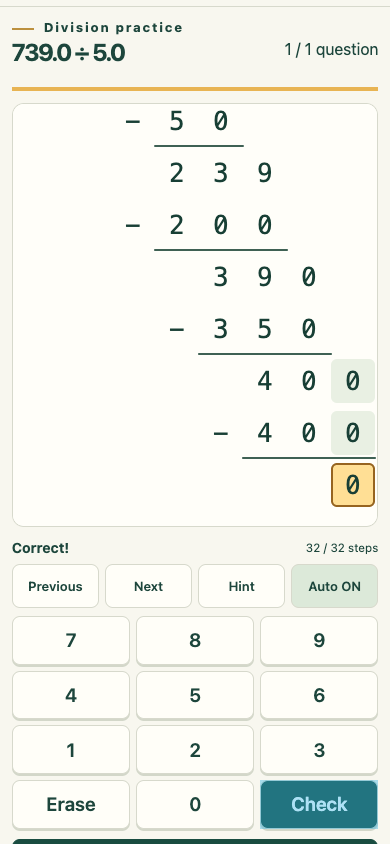
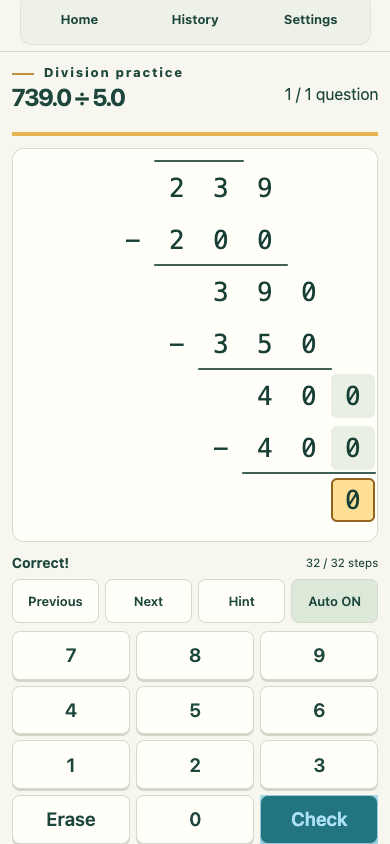
Use US flag and align responsive header toolbar

diff --git a/public/privacy/index.html b/public/privacy/index.html
@@ -1,1 +1,1 @@
-<!doctype html><html lang="ja"><head><meta charset="utf-8"><meta name="viewport" content="width=device-width,initial-scale=1"><title>プライバシー・外部送信 | Masu</title><style>body{font:16px/1.8 system-ui;background:#f8f7ef;color:#194c40;max-width:48rem;margin:2rem auto;padding:1rem}h1{font-size:clamp(1.4rem,5vw,2rem);line-height:1.5;text-wrap:balance}p{white-space:pre-wrap;overflow-wrap:anywhere}a{color:inherit}nav{display:flex;flex-wrap:wrap;gap:1rem}[data-language]{display:none}html[lang="ja"] [data-language="ja"],html[lang="en"] [data-language="en"]{display:block}.language-switch{display:flex;justify-content:flex-end;gap:4px;margin-bottom:1rem}.language-switch button{display:grid;place-items:center;width:44px;min-height:44px;border:1px solid #d7d9cc;border-radius:8px;background:transparent;cursor:pointer}.language-switch [aria-pressed="true"]{background:#e5ecdf;border-color:#638371}.language-switch img{border:1px solid #b6bfb2;border-radius:2px}.language-switch button:focus-visible{outline:3px solid #bd7621;outline-offset:2px}</style><script src="../language.js"></script></head><body><main><div class="language-switch" role="group" aria-label="言語"><button type="button" data-set-language="ja" aria-label="日本語" title="日本語" aria-pressed="true"><img src="../flag-ja.svg" alt="" width="30" height="20"></button><button type="button" data-set-language="en" aria-label="English" title="English" aria-pressed="false"><img src="../flag-en.svg" alt="" width="30" height="20"></button></div><section data-language="ja" data-title="プライバシー・外部送信"><nav><a href="../index.html">← Masu ホーム</a><a href="../about/index.html">使い方</a><a href="../terms/index.html">利用規約</a><a href="../privacy/index.html">プライバシー</a><a href="../licenses/index.html">ライセンス</a></nav><h1>プライバシー・外部送信</h1><p>設定、途中の回答、直近30回・最大100問の結果を、この端末のブラウザ内（localStorage）に保存します。表示言語の選択もこのブラウザ内に保存します。名前・メールアドレスの入力やアカウント登録は不要です。設定から保存内容を削除できます。端末・ブラウザ・公開先が変わると保存場所も変わり、端末間では同期しません。</p><p>学習記録をサーバーへ送信する機能、広告、アクセス解析、外部フォント・外部画像の読み込みはありません。アプリ自身は広告・解析用Cookieを使用しません。</p><p>GitHub Pages等のWeb配信元は、ページ取得の際にIPアドレスやブラウザ等の接続情報を処理する場合があります。配信事業者のプライバシー方針も確認してください。macOS版はMac上でページを配信し、同じWi-Fiの端末から接続する場合も学習記録は各端末のブラウザ内に保存します。</p><p>広告や解析を導入する際には、送信先・情報・目的・必要な選択方法等を改めて表示します。現在の版では広告や解析のスクリプトを読み込みません。</p></section><section data-language="en" data-title="Privacy &amp; external communication"><nav><a href="../index.html">← Masu Home</a><a href="../about/index.html">Help</a><a href="../terms/index.html">Terms</a><a href="../privacy/index.html">Privacy</a><a href="../licenses/index.html">Licenses</a></nav><h1>Privacy &amp; external communication</h1><p>Settings, unfinished answers, and the most recent 30 sessions (up to 100 questions) are stored in this browser on this device using localStorage. Your language choice is also stored in this browser. No name, email address or account registration is required. Delete learning records from Settings. Records are separate for each device, browser and site address; they are not synchronized.</p><p>There is no feature that sends learning records to a server, and no advertising, analytics, external fonts or external images are loaded. The application itself does not use advertising or analytics cookies.</p><p>The web host, such as GitHub Pages, may process connection information including your IP address and browser when you request pages. Please also consult the hosting provider's privacy policy. The macOS version serves pages from your Mac. When devices on the same Wi-Fi connect to it, learning records remain in each device's browser.</p><p>If advertising or analytics is introduced, information about recipients, data, purposes and any necessary choices will be provided again. This version does not load advertising or analytics scripts.</p></section></main></body></html>
+<!doctype html><html lang="ja"><head><meta charset="utf-8"><meta name="viewport" content="width=device-width,initial-scale=1"><title>プライバシー・外部送信 | Masu</title><style>body{font:16px/1.8 system-ui;background:#f8f7ef;color:#194c40;max-width:48rem;margin:2rem auto;padding:1rem}h1{font-size:clamp(1.4rem,5vw,2rem);line-height:1.5;text-wrap:balance}p{white-space:pre-wrap;overflow-wrap:anywhere}a{color:inherit}nav{display:flex;flex-wrap:wrap;gap:1rem}[data-language]{display:none}html[lang="ja"] [data-language="ja"],html[lang="en"] [data-language="en"]{display:block}.language-switch{display:flex;justify-content:flex-end;gap:4px;margin-bottom:1rem}.language-switch button{display:grid;place-items:center;width:44px;min-height:44px;border:1px solid #d7d9cc;border-radius:8px;background:transparent;cursor:pointer}.language-switch [aria-pressed="true"]{background:#e5ecdf;border-color:#638371}.language-switch img{border:1px solid #b6bfb2;border-radius:2px}.language-switch button:focus-visible{outline:3px solid #bd7621;outline-offset:2px}</style><script src="../language.js"></script></head><body><main><div class="language-switch" role="group" aria-label="言語"><button type="button" data-set-language="ja" aria-label="日本語" title="日本語" aria-pressed="true"><img src="../flag-ja.svg" alt="" width="30" height="20"></button><button type="button" data-set-language="en" aria-label="English" title="English" aria-pressed="false"><img src="../flag-en.svg?v=us" alt="" width="30" height="20"></button></div><section data-language="ja" data-title="プライバシー・外部送信"><nav><a href="../index.html">← Masu ホーム</a><a href="../about/index.html">使い方</a><a href="../terms/index.html">利用規約</a><a href="../privacy/index.html">プライバシー</a><a href="../licenses/index.html">ライセンス</a></nav><h1>プライバシー・外部送信</h1><p>設定、途中の回答、直近30回・最大100問の結果を、この端末のブラウザ内（localStorage）に保存します。表示言語の選択もこのブラウザ内に保存します。名前・メールアドレスの入力やアカウント登録は不要です。設定から保存内容を削除できます。端末・ブラウザ・公開先が変わると保存場所も変わり、端末間では同期しません。</p><p>学習記録をサーバーへ送信する機能、広告、アクセス解析、外部フォント・外部画像の読み込みはありません。アプリ自身は広告・解析用Cookieを使用しません。</p><p>GitHub Pages等のWeb配信元は、ページ取得の際にIPアドレスやブラウザ等の接続情報を処理する場合があります。配信事業者のプライバシー方針も確認してください。macOS版はMac上でページを配信し、同じWi-Fiの端末から接続する場合も学習記録は各端末のブラウザ内に保存します。</p><p>広告や解析を導入する際には、送信先・情報・目的・必要な選択方法等を改めて表示します。現在の版では広告や解析のスクリプトを読み込みません。</p></section><section data-language="en" data-title="Privacy &amp; external communication"><nav><a href="../index.html">← Masu Home</a><a href="../about/index.html">Help</a><a href="../terms/index.html">Terms</a><a href="../privacy/index.html">Privacy</a><a href="../licenses/index.html">Licenses</a></nav><h1>Privacy &amp; external communication</h1><p>Settings, unfinished answers, and the most recent 30 sessions (up to 100 questions) are stored in this browser on this device using localStorage. Your language choice is also stored in this browser. No name, email address or account registration is required. Delete learning records from Settings. Records are separate for each device, browser and site address; they are not synchronized.</p><p>There is no feature that sends learning records to a server, and no advertising, analytics, external fonts or external images are loaded. The application itself does not use advertising or analytics cookies.</p><p>The web host, such as GitHub Pages, may process connection information including your IP address and browser when you request pages. Please also consult the hosting provider's privacy policy. The macOS version serves pages from your Mac. When devices on the same Wi-Fi connect to it, learning records remain in each device's browser.</p><p>If advertising or analytics is introduced, information about recipients, data, purposes and any necessary choices will be provided again. This version does not load advertising or analytics scripts.</p></section></main></body></html>

diff --git a/public/about/index.html b/public/about/index.html
@@ -1,1 +1,1 @@
-<!doctype html><html lang="ja"><head><meta charset="utf-8"><meta name="viewport" content="width=device-width,initial-scale=1"><title>使い方・運営 | Masu</title><style>body{font:16px/1.8 system-ui;background:#f8f7ef;color:#194c40;max-width:48rem;margin:2rem auto;padding:1rem}h1{font-size:clamp(1.4rem,5vw,2rem);line-height:1.5;text-wrap:balance}p{white-space:pre-wrap;overflow-wrap:anywhere}a{color:inherit}nav{display:flex;flex-wrap:wrap;gap:1rem}[data-language]{display:none}html[lang="ja"] [data-language="ja"],html[lang="en"] [data-language="en"]{display:block}.language-switch{display:flex;justify-content:flex-end;gap:4px;margin-bottom:1rem}.language-switch button{display:grid;place-items:center;width:44px;min-height:44px;border:1px solid #d7d9cc;border-radius:8px;background:transparent;cursor:pointer}.language-switch [aria-pressed="true"]{background:#e5ecdf;border-color:#638371}.language-switch img{border:1px solid #b6bfb2;border-radius:2px}.language-switch button:focus-visible{outline:3px solid #bd7621;outline-offset:2px}</style><script src="../language.js"></script></head><body><main><div class="language-switch" role="group" aria-label="言語"><button type="button" data-set-language="ja" aria-label="日本語" title="日本語" aria-pressed="true"><img src="../flag-ja.svg" alt="" width="30" height="20"></button><button type="button" data-set-language="en" aria-label="English" title="English" aria-pressed="false"><img src="../flag-en.svg" alt="" width="30" height="20"></button></div><section data-language="ja" data-title="使い方・運営"><nav><a href="../index.html">← Masu ホーム</a><a href="../about/index.html">使い方</a><a href="../terms/index.html">利用規約</a><a href="../privacy/index.html">プライバシー</a><a href="../licenses/index.html">ライセンス</a></nav><h1>使い方・運営</h1><p>サポート：<a href="mailto:nobodyknowsxx@gmail.com">nobodyknowsxx@gmail.com</a></p><p><a href="https://keetane.github.io/Masu/">Webアプリを開く</a> ／ <a href="https://github.com/keetane/Masu">公開リポジトリ</a> ／ <a href="https://github.com/keetane/Masu/issues">お問い合わせ（GitHub Issues）</a></p><p>Masuは、たし算・ひき算・かけ算・わり算の筆算を練習できる無料のWebアプリです。アカウント登録は不要です。</p><p>演算、難しさ、問題数を選んで「はじめる」を押します。強調された入力先に数字を入れると、ナビONでは次の位置へ進みます。「確認」で採点し、履歴から復習できます。</p><p>個人・家庭・学校・塾で無償で利用できます。利用条件と第三者ソフトウェアの権利表示は、利用規約・ライセンスのページで確認できます。</p><p>運営：keetane（公開リポジトリの所有者）。サポート・権利に関するお問い合わせは nobodyknowsxx@gmail.com へお寄せください。不具合の公開報告にはGitHub Issuesも利用できます。学習履歴や個人情報を公開の場所へ投稿しないでください。</p></section><section data-language="en" data-title="Help &amp; support"><nav><a href="../index.html">← Masu Home</a><a href="../about/index.html">Help</a><a href="../terms/index.html">Terms</a><a href="../privacy/index.html">Privacy</a><a href="../licenses/index.html">Licenses</a></nav><h1>Help &amp; support</h1><p>Support: <a href="mailto:nobodyknowsxx@gmail.com">nobodyknowsxx@gmail.com</a></p><p><a href="https://keetane.github.io/Masu/">Open Masu</a> ／ <a href="https://github.com/keetane/Masu">Repository</a> ／ <a href="https://github.com/keetane/Masu/issues">Contact (GitHub Issues)</a></p><p>Masu is a free web application for practicing written addition, subtraction, multiplication and division. No account is required.</p><p>Choose an operation, difficulty and number of questions, then select Start practice. Enter a digit at the highlighted position. With Auto ON, the next position is selected automatically. Select Check to mark your answers and use History to review your work.</p><p>Individuals, families, schools and tutoring services may use Masu free of charge. See Terms and Licenses for the conditions of use and third-party software notices.</p><p>Operated by keetane, the owner of the public repository. For support and rights-related inquiries, contact nobodyknowsxx@gmail.com. You can also report bugs on GitHub Issues. Do not post personal information or learning records in public.</p></section></main></body></html>
+<!doctype html><html lang="ja"><head><meta charset="utf-8"><meta name="viewport" content="width=device-width,initial-scale=1"><title>使い方・運営 | Masu</title><style>body{font:16px/1.8 system-ui;background:#f8f7ef;color:#194c40;max-width:48rem;margin:2rem auto;padding:1rem}h1{font-size:clamp(1.4rem,5vw,2rem);line-height:1.5;text-wrap:balance}p{white-space:pre-wrap;overflow-wrap:anywhere}a{color:inherit}nav{display:flex;flex-wrap:wrap;gap:1rem}[data-language]{display:none}html[lang="ja"] [data-language="ja"],html[lang="en"] [data-language="en"]{display:block}.language-switch{display:flex;justify-content:flex-end;gap:4px;margin-bottom:1rem}.language-switch button{display:grid;place-items:center;width:44px;min-height:44px;border:1px solid #d7d9cc;border-radius:8px;background:transparent;cursor:pointer}.language-switch [aria-pressed="true"]{background:#e5ecdf;border-color:#638371}.language-switch img{border:1px solid #b6bfb2;border-radius:2px}.language-switch button:focus-visible{outline:3px solid #bd7621;outline-offset:2px}</style><script src="../language.js"></script></head><body><main><div class="language-switch" role="group" aria-label="言語"><button type="button" data-set-language="ja" aria-label="日本語" title="日本語" aria-pressed="true"><img src="../flag-ja.svg" alt="" width="30" height="20"></button><button type="button" data-set-language="en" aria-label="English" title="English" aria-pressed="false"><img src="../flag-en.svg?v=us" alt="" width="30" height="20"></button></div><section data-language="ja" data-title="使い方・運営"><nav><a href="../index.html">← Masu ホーム</a><a href="../about/index.html">使い方</a><a href="../terms/index.html">利用規約</a><a href="../privacy/index.html">プライバシー</a><a href="../licenses/index.html">ライセンス</a></nav><h1>使い方・運営</h1><p>サポート：<a href="mailto:nobodyknowsxx@gmail.com">nobodyknowsxx@gmail.com</a></p><p><a href="https://keetane.github.io/Masu/">Webアプリを開く</a> ／ <a href="https://github.com/keetane/Masu">公開リポジトリ</a> ／ <a href="https://github.com/keetane/Masu/issues">お問い合わせ（GitHub Issues）</a></p><p>Masuは、たし算・ひき算・かけ算・わり算の筆算を練習できる無料のWebアプリです。アカウント登録は不要です。</p><p>演算、難しさ、問題数を選んで「はじめる」を押します。強調された入力先に数字を入れると、ナビONでは次の位置へ進みます。「確認」で採点し、履歴から復習できます。</p><p>個人・家庭・学校・塾で無償で利用できます。利用条件と第三者ソフトウェアの権利表示は、利用規約・ライセンスのページで確認できます。</p><p>運営：keetane（公開リポジトリの所有者）。サポート・権利に関するお問い合わせは nobodyknowsxx@gmail.com へお寄せください。不具合の公開報告にはGitHub Issuesも利用できます。学習履歴や個人情報を公開の場所へ投稿しないでください。</p></section><section data-language="en" data-title="Help &amp; support"><nav><a href="../index.html">← Masu Home</a><a href="../about/index.html">Help</a><a href="../terms/index.html">Terms</a><a href="../privacy/index.html">Privacy</a><a href="../licenses/index.html">Licenses</a></nav><h1>Help &amp; support</h1><p>Support: <a href="mailto:nobodyknowsxx@gmail.com">nobodyknowsxx@gmail.com</a></p><p><a href="https://keetane.github.io/Masu/">Open Masu</a> ／ <a href="https://github.com/keetane/Masu">Repository</a> ／ <a href="https://github.com/keetane/Masu/issues">Contact (GitHub Issues)</a></p><p>Masu is a free web application for practicing written addition, subtraction, multiplication and division. No account is required.</p><p>Choose an operation, difficulty and number of questions, then select Start practice. Enter a digit at the highlighted position. With Auto ON, the next position is selected automatically. Select Check to mark your answers and use History to review your work.</p><p>Individuals, families, schools and tutoring services may use Masu free of charge. See Terms and Licenses for the conditions of use and third-party software notices.</p><p>Operated by keetane, the owner of the public repository. For support and rights-related inquiries, contact nobodyknowsxx@gmail.com. You can also report bugs on GitHub Issues. Do not post personal information or learning records in public.</p></section></main></body></html>

diff --git a/public/terms/index.html b/public/terms/index.html
@@ -1,1 +1,1 @@
-<!doctype html><html lang="ja"><head><meta charset="utf-8"><meta name="viewport" content="width=device-width,initial-scale=1"><title>利用規約 | Masu</title><style>body{font:16px/1.8 system-ui;background:#f8f7ef;color:#194c40;max-width:48rem;margin:2rem auto;padding:1rem}h1{font-size:clamp(1.4rem,5vw,2rem);line-height:1.5;text-wrap:balance}p{white-space:pre-wrap;overflow-wrap:anywhere}a{color:inherit}nav{display:flex;flex-wrap:wrap;gap:1rem}[data-language]{display:none}html[lang="ja"] [data-language="ja"],html[lang="en"] [data-language="en"]{display:block}.language-switch{display:flex;justify-content:flex-end;gap:4px;margin-bottom:1rem}.language-switch button{display:grid;place-items:center;width:44px;min-height:44px;border:1px solid #d7d9cc;border-radius:8px;background:transparent;cursor:pointer}.language-switch [aria-pressed="true"]{background:#e5ecdf;border-color:#638371}.language-switch img{border:1px solid #b6bfb2;border-radius:2px}.language-switch button:focus-visible{outline:3px solid #bd7621;outline-offset:2px}</style><script src="../language.js"></script></head><body><main><div class="language-switch" role="group" aria-label="言語"><button type="button" data-set-language="ja" aria-label="日本語" title="日本語" aria-pressed="true"><img src="../flag-ja.svg" alt="" width="30" height="20"></button><button type="button" data-set-language="en" aria-label="English" title="English" aria-pressed="false"><img src="../flag-en.svg" alt="" width="30" height="20"></button></div><section data-language="ja" data-title="利用規約"><nav><a href="../index.html">← Masu ホーム</a><a href="../about/index.html">使い方</a><a href="../terms/index.html">利用規約</a><a href="../privacy/index.html">プライバシー</a><a href="../licenses/index.html">ライセンス</a></nav><h1>利用規約</h1><p>Masuの利用料は無料です。個人・家庭・学校・塾などで筆算の学習・指導に無償で利用できます。有料授業の学習用ツールとしての利用も可能です。通信費・端末費用は利用者の負担です。</p><p>Masuの独自部分には「Masu 無償利用ライセンス 1.0」が適用されます。これはソースコード・素材の改変再配布や販売を一律に許可するOSSライセンスではありません。詳しい条件はライセンスページの全文を確認してください。第三者ソフトウェアには各ライセンスが適用されます。</p><p>学習記録はブラウザ内に保存され、サイトデータの削除等で失われます。計算結果・採点の正確性、継続提供、データ保存を保証しません。適用法令で認められる範囲で責任を制限しますが、故意・重過失による責任等、法令上制限できない責任を免除するものではありません。</p></section><section data-language="en" data-title="Terms of use"><nav><a href="../index.html">← Masu Home</a><a href="../about/index.html">Help</a><a href="../terms/index.html">Terms</a><a href="../privacy/index.html">Privacy</a><a href="../licenses/index.html">Licenses</a></nav><h1>Terms of use</h1><p>Masu is free to use for learning and teaching written arithmetic by individuals, families, schools and tutoring services. You may also use it as a learning tool in paid lessons. Users are responsible for connection and device costs.</p><p>Masu's original components are covered by the Masu Free Use License 1.0. It is not an open-source license that generally permits redistribution of modified source code or materials, or their sale. Read the full license on the Licenses page. Third-party software is governed by its respective licenses. English policy and license text is provided as a translation for convenience; the Japanese original governs.</p><p>Learning records are stored in your browser and can be lost when site data is deleted. Accuracy of calculations and marking, continued availability and data retention are not guaranteed. Liability is limited to the extent permitted by applicable law. This does not exclude liability for intentional misconduct, gross negligence or other liability that cannot be excluded by law.</p></section></main></body></html>
+<!doctype html><html lang="ja"><head><meta charset="utf-8"><meta name="viewport" content="width=device-width,initial-scale=1"><title>利用規約 | Masu</title><style>body{font:16px/1.8 system-ui;background:#f8f7ef;color:#194c40;max-width:48rem;margin:2rem auto;padding:1rem}h1{font-size:clamp(1.4rem,5vw,2rem);line-height:1.5;text-wrap:balance}p{white-space:pre-wrap;overflow-wrap:anywhere}a{color:inherit}nav{display:flex;flex-wrap:wrap;gap:1rem}[data-language]{display:none}html[lang="ja"] [data-language="ja"],html[lang="en"] [data-language="en"]{display:block}.language-switch{display:flex;justify-content:flex-end;gap:4px;margin-bottom:1rem}.language-switch button{display:grid;place-items:center;width:44px;min-height:44px;border:1px solid #d7d9cc;border-radius:8px;background:transparent;cursor:pointer}.language-switch [aria-pressed="true"]{background:#e5ecdf;border-color:#638371}.language-switch img{border:1px solid #b6bfb2;border-radius:2px}.language-switch button:focus-visible{outline:3px solid #bd7621;outline-offset:2px}</style><script src="../language.js"></script></head><body><main><div class="language-switch" role="group" aria-label="言語"><button type="button" data-set-language="ja" aria-label="日本語" title="日本語" aria-pressed="true"><img src="../flag-ja.svg" alt="" width="30" height="20"></button><button type="button" data-set-language="en" aria-label="English" title="English" aria-pressed="false"><img src="../flag-en.svg?v=us" alt="" width="30" height="20"></button></div><section data-language="ja" data-title="利用規約"><nav><a href="../index.html">← Masu ホーム</a><a href="../about/index.html">使い方</a><a href="../terms/index.html">利用規約</a><a href="../privacy/index.html">プライバシー</a><a href="../licenses/index.html">ライセンス</a></nav><h1>利用規約</h1><p>Masuの利用料は無料です。個人・家庭・学校・塾などで筆算の学習・指導に無償で利用できます。有料授業の学習用ツールとしての利用も可能です。通信費・端末費用は利用者の負担です。</p><p>Masuの独自部分には「Masu 無償利用ライセンス 1.0」が適用されます。これはソースコード・素材の改変再配布や販売を一律に許可するOSSライセンスではありません。詳しい条件はライセンスページの全文を確認してください。第三者ソフトウェアには各ライセンスが適用されます。</p><p>学習記録はブラウザ内に保存され、サイトデータの削除等で失われます。計算結果・採点の正確性、継続提供、データ保存を保証しません。適用法令で認められる範囲で責任を制限しますが、故意・重過失による責任等、法令上制限できない責任を免除するものではありません。</p></section><section data-language="en" data-title="Terms of use"><nav><a href="../index.html">← Masu Home</a><a href="../about/index.html">Help</a><a href="../terms/index.html">Terms</a><a href="../privacy/index.html">Privacy</a><a href="../licenses/index.html">Licenses</a></nav><h1>Terms of use</h1><p>Masu is free to use for learning and teaching written arithmetic by individuals, families, schools and tutoring services. You may also use it as a learning tool in paid lessons. Users are responsible for connection and device costs.</p><p>Masu's original components are covered by the Masu Free Use License 1.0. It is not an open-source license that generally permits redistribution of modified source code or materials, or their sale. Read the full license on the Licenses page. Third-party software is governed by its respective licenses. English policy and license text is provided as a translation for convenience; the Japanese original governs.</p><p>Learning records are stored in your browser and can be lost when site data is deleted. Accuracy of calculations and marking, continued availability and data retention are not guaranteed. Liability is limited to the extent permitted by applicable law. This does not exclude liability for intentional misconduct, gross negligence or other liability that cannot be excluded by law.</p></section></main></body></html>

diff --git a/public/licenses/index.html b/public/licenses/index.html
@@ -1,4 +1,4 @@
-<!doctype html><html lang="ja"><head><meta charset="utf-8"><meta name="viewport" content="width=device-width,initial-scale=1"><title>ライセンス・無償利用条件 | Masu</title><style>body{font:16px/1.8 system-ui;background:#f8f7ef;color:#194c40;max-width:48rem;margin:2rem auto;padding:1rem}h1{font-size:clamp(1.4rem,5vw,2rem);line-height:1.5;text-wrap:balance}p{white-space:pre-wrap;overflow-wrap:anywhere}a{color:inherit}nav{display:flex;flex-wrap:wrap;gap:1rem}[data-language]{display:none}html[lang="ja"] [data-language="ja"],html[lang="en"] [data-language="en"]{display:block}.language-switch{display:flex;justify-content:flex-end;gap:4px;margin-bottom:1rem}.language-switch button{display:grid;place-items:center;width:44px;min-height:44px;border:1px solid #d7d9cc;border-radius:8px;background:transparent;cursor:pointer}.language-switch [aria-pressed="true"]{background:#e5ecdf;border-color:#638371}.language-switch img{border:1px solid #b6bfb2;border-radius:2px}.language-switch button:focus-visible{outline:3px solid #bd7621;outline-offset:2px}</style><script src="../language.js"></script></head><body><main><div class="language-switch" role="group" aria-label="言語"><button type="button" data-set-language="ja" aria-label="日本語" title="日本語" aria-pressed="true"><img src="../flag-ja.svg" alt="" width="30" height="20"></button><button type="button" data-set-language="en" aria-label="English" title="English" aria-pressed="false"><img src="../flag-en.svg" alt="" width="30" height="20"></button></div><section data-language="ja" data-title="ライセンス・無償利用条件"><nav><a href="../index.html">← Masu ホーム</a><a href="../about/index.html">使い方</a><a href="../terms/index.html">利用規約</a><a href="../privacy/index.html">プライバシー</a><a href="../licenses/index.html">ライセンス</a></nav><h1>ライセンス・無償利用条件</h1><p><a href="../LICENSE.txt">無償利用ライセンス全文（テキスト）</a> ／ <a href="../THIRD_PARTY_NOTICES.txt">第三者の権利表示全文（テキスト）</a></p><p>Masuは無償で利用できます。独自部分の利用条件と、第三者ソフトウェアの許諾条件を以下に掲載します。盤面・アイコンは本プロジェクト用の幾何図形で制作し、旧アプリのアイコンを継承していません。フォントは端末のものを使い、フォントファイルを配布しません。</p><p>Masu 無償利用ライセンス 1.0
+<!doctype html><html lang="ja"><head><meta charset="utf-8"><meta name="viewport" content="width=device-width,initial-scale=1"><title>ライセンス・無償利用条件 | Masu</title><style>body{font:16px/1.8 system-ui;background:#f8f7ef;color:#194c40;max-width:48rem;margin:2rem auto;padding:1rem}h1{font-size:clamp(1.4rem,5vw,2rem);line-height:1.5;text-wrap:balance}p{white-space:pre-wrap;overflow-wrap:anywhere}a{color:inherit}nav{display:flex;flex-wrap:wrap;gap:1rem}[data-language]{display:none}html[lang="ja"] [data-language="ja"],html[lang="en"] [data-language="en"]{display:block}.language-switch{display:flex;justify-content:flex-end;gap:4px;margin-bottom:1rem}.language-switch button{display:grid;place-items:center;width:44px;min-height:44px;border:1px solid #d7d9cc;border-radius:8px;background:transparent;cursor:pointer}.language-switch [aria-pressed="true"]{background:#e5ecdf;border-color:#638371}.language-switch img{border:1px solid #b6bfb2;border-radius:2px}.language-switch button:focus-visible{outline:3px solid #bd7621;outline-offset:2px}</style><script src="../language.js"></script></head><body><main><div class="language-switch" role="group" aria-label="言語"><button type="button" data-set-language="ja" aria-label="日本語" title="日本語" aria-pressed="true"><img src="../flag-ja.svg" alt="" width="30" height="20"></button><button type="button" data-set-language="en" aria-label="English" title="English" aria-pressed="false"><img src="../flag-en.svg?v=us" alt="" width="30" height="20"></button></div><section data-language="ja" data-title="ライセンス・無償利用条件"><nav><a href="../index.html">← Masu ホーム</a><a href="../about/index.html">使い方</a><a href="../terms/index.html">利用規約</a><a href="../privacy/index.html">プライバシー</a><a href="../licenses/index.html">ライセンス</a></nav><h1>ライセンス・無償利用条件</h1><p><a href="../LICENSE.txt">無償利用ライセンス全文（テキスト）</a> ／ <a href="../THIRD_PARTY_NOTICES.txt">第三者の権利表示全文（テキスト）</a></p><p>Masuは無償で利用できます。独自部分の利用条件と、第三者ソフトウェアの許諾条件を以下に掲載します。盤面・アイコンは本プロジェクト用の幾何図形で制作し、旧アプリのアイコンを継承していません。フォントは端末のものを使い、フォントファイルを配布しません。</p><p>Masu 無償利用ライセンス 1.0
 2026年11月23日
 識別名: LicenseRef-Masu-Free-Use（独自ライセンス）
 

diff --git a/src/style.css b/src/style.css
@@ -53,12 +53,21 @@ summary:focus-visible {
   outline-offset: 2px;
 }
 header {
-  height: 76px;
   border-bottom: 1px solid var(--edge);
+}
+.header-inner {
+  width: min(880px, 90%);
+  margin: auto;
+  min-height: 76px;
   display: flex;
   align-items: center;
   justify-content: space-between;
-  padding-inline: max(5%, calc((100vw - 1000px) / 2));
+  gap: 20px;
+}
+.header-tools {
+  display: flex;
+  align-items: center;
+  gap: 16px;
 }
 .brand {
   display: flex;
@@ -418,10 +427,6 @@ section h3 {
   font-size: 16px;
 }
 @media (max-width: 650px) {
-  header {
-    height: 58px;
-    padding: 0 5%;
-  }
   .brand {
     font-size: 26px;
   }
@@ -833,12 +838,15 @@ button.division-target:disabled {
   text-align: left;
 }
 @media (max-width: 650px) {
-  header {
-    height: auto;
+  .header-inner {
     display: grid;
     grid-template-columns: 1fr auto;
-    row-gap: 2px;
+    gap: 6px 12px;
     padding-block: 6px;
+    min-height: 0;
+  }
+  .header-tools {
+    display: contents;
   }
   header .brand {
     grid-column: 1;
@@ -851,13 +859,28 @@ button.division-target:disabled {
   header nav {
     grid-column: 1 / -1;
     grid-row: 2;
-    justify-content: center;
+    display: grid;
+    grid-template-columns: repeat(3, minmax(0, 1fr));
+    gap: 4px;
+    padding: 3px;
+    border: 1px solid #e0e4d8;
+    border-radius: 12px;
+    background: #eef1e7;
   }
   header nav a {
-    padding-block: 7px;
+    display: flex;
+    align-items: center;
+    justify-content: center;
+    min-height: 44px;
+    padding: 6px;
+    border-radius: 8px;
+  }
+  header nav a[aria-current] {
+    background: #fffef8;
+    box-shadow: 0 1px 3px #203b3018;
   }
   .practice .scrollboard {
-    max-height: calc(100dvh - 420px);
+    max-height: calc(100dvh - 450px);
   }
   html[lang="en"] .choices button {
     font-size: 13px;

diff --git a/src/main.tsx b/src/main.tsx
@@ -321,26 +321,30 @@ function App() {
   return (
     <div className={c.motion ? "" : "reduced"}>
       <header>
-        <a className="brand" href="#/home">
-          <img src="./masu.svg" alt="" />
-          Masu
-        </a>
-        <nav>
-          {[
-            ["home", "ホーム"],
-            ["history", "履歴"],
-            ["settings", "設定"],
-          ].map(([r, caption]) => (
-            <a
-              key={r}
-              aria-current={page === r ? "page" : undefined}
-              href={"#/" + r}
-            >
-              {t(caption)}
-            </a>
-          ))}
-        </nav>
-        <LanguageSwitcher />
+        <div className="header-inner">
+          <a className="brand" href="#/home">
+            <img src="./masu.svg" alt="" />
+            Masu
+          </a>
+          <div className="header-tools">
+            <nav>
+              {[
+                ["home", "ホーム"],
+                ["history", "履歴"],
+                ["settings", "設定"],
+              ].map(([r, caption]) => (
+                <a
+                  key={r}
+                  aria-current={page === r ? "page" : undefined}
+                  href={"#/" + r}
+                >
+                  {t(caption)}
+                </a>
+              ))}
+            </nav>
+            <LanguageSwitcher />
+          </div>
+        </div>
       </header>
       <main className={practice ? "practice" : ""}>
         {notice && <p role="status">{t(notice)}</p>}

diff --git a/src/Language.tsx b/src/Language.tsx
@@ -69,7 +69,12 @@ export function LanguageSwitcher() {
           aria-pressed={language === code}
           onClick={() => setLanguage(code)}
         >
-          <img src={"./flag-" + code + ".svg"} alt="" width="30" height="20" />
+          <img
+            src={"./flag-" + code + ".svg" + (code === "en" ? "?v=us" : "")}
+            alt=""
+            width="30"
+            height="20"
+          />
         </button>
       ))}
     </div>

diff --git a/docs/QA_REPORT.md b/docs/QA_REPORT.md
@@ -203,3 +203,11 @@ GitHub上のビルド・公開結果は[Actions](https://github.com/keetane/Masu
 単体41件（既存38件＋言語3件）とライセンス9件、Lint、型チェック・ビルドが成功。生成した726問の案内・ヒント・ラベルに日本語が残らないことも検査した。専用ブラウザ試験で6種類の英語計算を完答し、途中の言語切替前後で学習データが一致すること、正誤表示・履歴・結果、英語での削除、案内ページの言語引き継ぎ、不正な言語値、保存不可の場合の継続を確認した。
 
 幅320／375／390／430／1024pxで国旗の操作領域とページの幅を測定し、長い英語の演算名もボタン内に収まることを確認した。英語のホーム・割り算画面を画像で確認した。既存8例の日本語操作、12例の筆算表示、整数・小数の割り算、LANのモバイル・タッチ試験も成功。実機iPhoneでの確認は未実施。GitHub Pagesのワークフローへ言語切替のブラウザ試験を追加した。
+
+## 米国旗とヘッダーツールバーの整列（2026年11月24日）
+
+ユーザーの指定で英語の国旗を英国旗から米国旗へ変更した。13本の縞と50個の星をSVGで描画し、外部素材は追加していない。画像URLの版指定も更新し、ブラウザに残った以前の旗が表示され続けるのを避けた。
+
+ヘッダーを本文と同じ横幅へそろえた。PCはナビと国旗を右側の一組へまとめ、スマートフォンはロゴ・国旗の行と、横幅いっぱいの均等な3つのナビに整理した。ヘッダーの高さに合わせて筆算表示領域も調整した。
+
+幅320／375／390／430／1024pxのブラウザ試験で、モバイルのロゴと国旗の中心位置、ナビの全幅・均等幅、PCのナビと国旗の整列を測定して確認した。英語の全演算・言語切替、日本語の既存8例と筆算12例、静的案内ページの試験が成功。Lint、型チェック・ビルド、ライセンス9件、macOSバンドル・署名検証も成功した。モバイルとPCの画面を画像で確認した。

diff --git a/docs/ASSET_PROVENANCE.md b/docs/ASSET_PROVENANCE.md
@@ -8,7 +8,7 @@
 | `macos/main.swift` | 本プロジェクト用ランチャー。AppleのAppKit・Network等のシステムAPIを利用 | macOSのみ | ソースは無償利用ライセンス。OS・SDK本体を同梱しない |
 | `artwork/masu.svg` | 本プロジェクト用に制作した四つの四角と加算記号の幾何図形。旧素材からの加工ではない | Web・macOS | 独自部分と同じ利用条件。名称・商標の登録調査は未実施 |
 | `public/masu.svg` | 上記SVGと同一データ | Web・macOS | 同上 |
-| `public/flag-ja.svg`・`public/flag-en.svg` | 日本・英国の国旗を表す幾何図形をSVGで新規描画。外部素材・アイコン集・絵文字を使わない | Web・macOS | 独自SVGコードは本プロジェクトの利用条件。言語切替ボタンで使用 |
+| `public/flag-ja.svg`・`public/flag-en.svg` | 日本・米国の国旗を表す幾何図形をSVGで新規描画。外部素材・アイコン集・絵文字を使わない | Web・macOS | 独自SVGコードは本プロジェクトの利用条件。言語切替ボタンで使用 |
 | `artwork/masu.png`・`Masu.icns` | 上記SVGから本プロジェクトのスクリプトで生成 | macOS | 同上。外部のアイコン集は使わない |
 | 盤面・罫線・筆算記号 | CSS・SVGの数字位置、横線、曲線を独自に描画 | Web・macOS | 旧画像・教材図版の転載なし |
 | 文書・操作説明・ヒント | 本プロジェクト用に制作。問題は算術条件から生成 | Web・macOS | 市販問題集・教材の問題データを収録しない |

diff --git a/APP_DESIGN.md b/APP_DESIGN.md
@@ -80,7 +80,7 @@
 
 ## 4. 画面と導線
 
-表示言語は日本語・英語に対応する。ヘッダーの日本・英国のSVG国旗ボタンで切り替え、選択はブラウザ内へ保存する。初期値は日本語。ボタンは文字を表示せず、スクリーンリーダー用の言語名・選択状態と44px以上の操作領域を持たせる。言語切替で回答・採点・履歴を変更しない。筆算の案内・ヒント・アクセシビリティラベル、結果・設定、使い方・規約・プライバシー・ライセンスページも切り替える。ライセンス英訳は参考訳とし、日本語の原文と第三者の本文を保持する。
+表示言語は日本語・英語に対応する。ヘッダーの日本・米国のSVG国旗ボタンで切り替え、選択はブラウザ内へ保存する。初期値は日本語。ボタンは文字を表示せず、スクリーンリーダー用の言語名・選択状態と44px以上の操作領域を持たせる。言語切替で回答・採点・履歴を変更しない。筆算の案内・ヒント・アクセシビリティラベル、結果・設定、使い方・規約・プライバシー・ライセンスページも切り替える。ライセンス英訳は参考訳とし、日本語の原文と第三者の本文を保持する。
 
 ### 4.1 ホーム／出題設定
 

diff --git a/README.md b/README.md
@@ -12,7 +12,7 @@
 - 小数のわり算で、除数・被除数の小数点を順番に動かす操作
 - ヒント、採点、答えの修正、結果の確認と復習
 - 途中の練習と履歴のブラウザ内保存
-- 日本語・英語の表示切替（画面上部の日本・英国の国旗アイコン）
+- 日本語・英語の表示切替（画面上部の日本・米国の国旗アイコン）
 
 乗数が1桁のかけ算は積を入力すれば完了し、2桁以上では部分積を計算してから最後に足し合わせます。わり算の中の引き算は、繰り下がりの補助入力を省いて進めます。
 
@@ -25,7 +25,7 @@
 
 ブラウザで動くWebアプリです。インストールせず、上のリンクから利用できます。macOS用ランチャーや開発方法は[開発・ローカル配布ガイド](docs/DEVELOPMENT.md)を参照してください。
 
-言語の選択は次回も引き継ぎます。練習途中に切り替えても、入力した数字や履歴は保持されます。English is available using the UK flag at the top of the page.
+言語の選択は次回も引き継ぎます。練習途中に切り替えても、入力した数字や履歴は保持されます。English is available using the US flag at the top of the page.
 
 ## 保存とプライバシー
 

diff --git a/LICENSE_AND_RELEASE.md b/LICENSE_AND_RELEASE.md
@@ -26,7 +26,7 @@ Reactの上流[固定タグのLICENSE](https://github.com/react/react/blob/v19.2
 
 `THIRD_PARTY_NOTICES.md`と、Web配信物の`THIRD_PARTY_NOTICES.txt`・`licenses/index.html`へ全文を掲載する。独自部分のLICENSEもWeb成果物へ同梱する。ビルドでJS内のコメントが変化しても、利用者はフッターから全文を確認できる。
 
-英語表示にはLICENSE.enの参考訳と英語の通知案内を用意し、日本語原文が適用されることを明記する。日本語のLICENSEや第三者のMIT本文を置き換えず、両言語の全文を配信物へ保持する。日本・英国の国旗アイコンは外部素材ではなく本プロジェクトでSVGを描画し、追加の画像・フォント依存は導入しない。
+英語表示にはLICENSE.enの参考訳と英語の通知案内を用意し、日本語原文が適用されることを明記する。日本語のLICENSEや第三者のMIT本文を置き換えず、両言語の全文を配信物へ保持する。日本・米国の国旗アイコンは外部素材ではなく本プロジェクトでSVGを描画し、追加の画像・フォント依存は導入しない。
 
 ## 開発用・OS固有の依存
 
